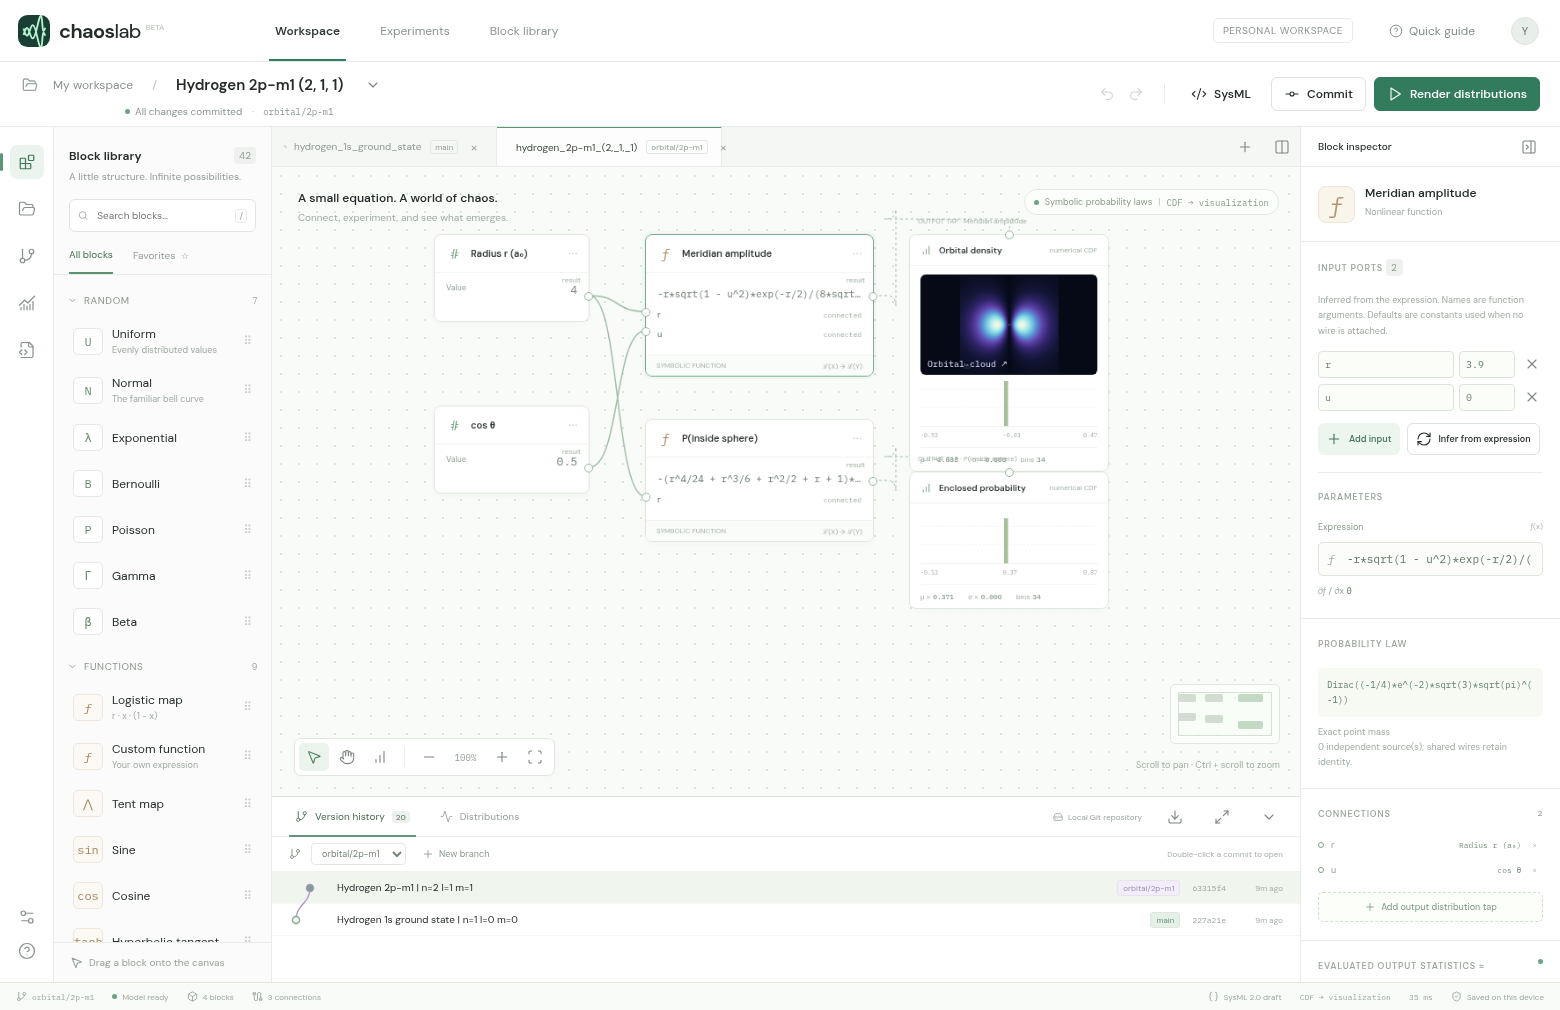
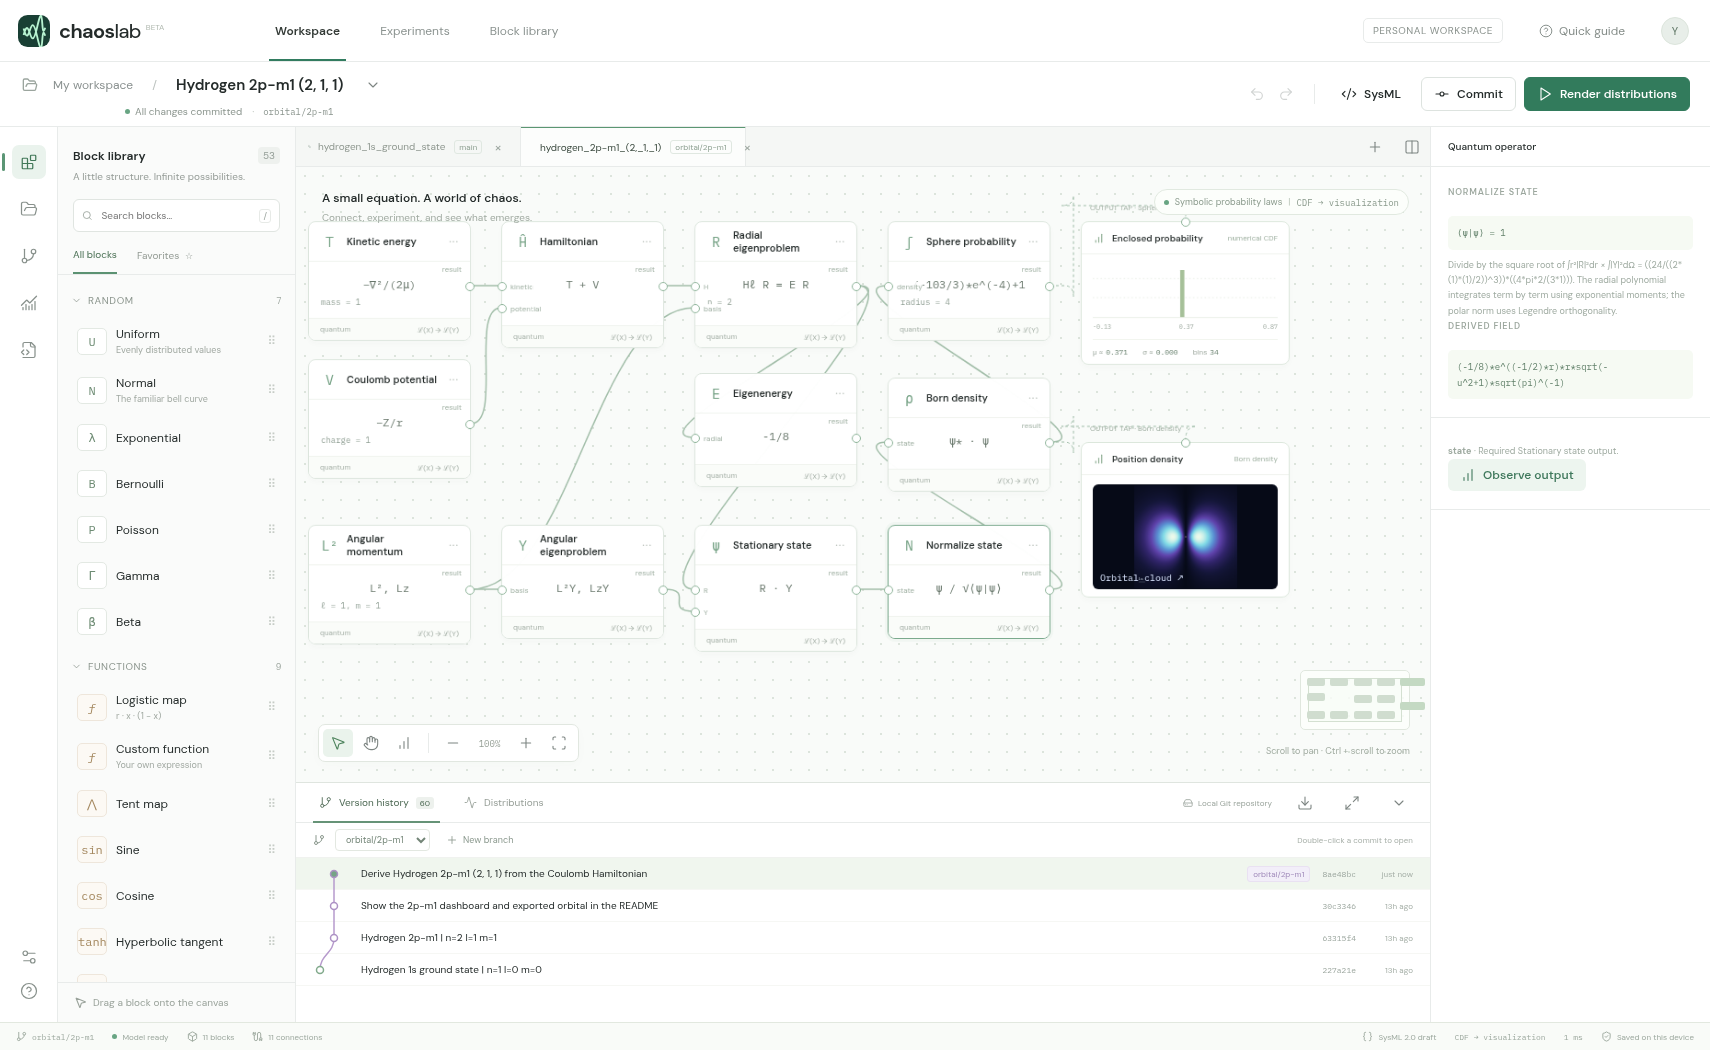
Show the derived state and operator graph for orbital/2p-m1

diff --git a/README.md b/README.md
@@ -4,6 +4,8 @@ Open **Version history** in Chaos Lab to explore the 20 hydrogen designs in this
 
 ## Hydrogen 2p (n = 2, ℓ = 1, m = 1)
 
+The connected Hamiltonian and eigenstate solvers give $E=-1/8$ Hartree for this state.
+
 ![Chaos Lab dashboard with the 2p model, m = 1, open in version history](dashboard.png)
 
 Radial nodes: 0. Polar nodes: 0. Plot half-width: 8 Bohr radii.
@@ -22,7 +24,7 @@ cd hydrogen_wavefunction
 python studio.py
 ```
 
-On Windows you can use `py studio.py`. On Linux you can use `python3 studio.py`. The first launch downloads the pinned Chaos Lab browser build. Double-click a commit to open it in a tab. Open another and use **Split view** to compare them. **Orbital cloud ↗** opens the spatial plots. The launcher reads the Git objects from your clone, including origin branches. Run `git fetch origin` and restart the launcher to load new remote branches.
+On Windows you can use `py studio.py`. On Linux you can use `python3 studio.py`. The first launch downloads the pinned Chaos Lab browser build. Double-click a commit to open it in a tab. Open another and use **Split view** to compare them. **Orbital cloud ↗** opens the spatial plots. The launcher reads the Git objects from your clone, including origin branches. For an existing clone, update the checked-out branch with `git pull --ff-only`, fetch the other branches with `git fetch origin`, and restart the launcher. Double-click the latest commit for the design you want to explore.
 
 To compare states with the same radial law, open `orbital/2p-m0` and `orbital/2p-m1`. At the same radius their enclosed-probability probes agree. The first slice is dark on the equatorial plane, while the second is dark along the polar axis.
 
@@ -32,7 +34,17 @@ To compare states with the same radial law, open `orbital/2p-m0` and `orbital/2p
 
 Branch names encode `(n, ℓ, m)`. For example, `orbital/3d-m1` is `(3,2,1)`. Each snapshot includes the editable graph, its compiled symbolic representation, and its SysML text. Each excited-state branch also contains a reference cross-section.
 
-Coordinates are in Bohr radii. These are normalized fixed-proton, nonrelativistic spatial eigenstates in the complex spherical-harmonic basis. For a fixed m the azimuthal phase is exp(i m φ), so probability density is axially symmetric. The graph evaluates the real meridian amplitude at φ = 0 using radius r and u = cos θ. Its square is probability per unit volume. The sphere probe integrates the radial Born law. The field tap sweeps the same amplitude expression for the x–z slice and its projected detections. Detections are drawn for display from a numerical grid of the final density including the r² volume factor. Brightness and plotting windows are scaled per orbital.
+## How the graph derives this orbital
+
+1. **Kinetic energy** and **Coulomb potential** supply the relative-coordinate operators in atomic units. Their wires feed **Hamiltonian**, which constructs $H=-\nabla^2/(2\mu)-Z/r$. The default is a fixed proton, $Z=\mu=1$.
+2. **Angular momentum** selects the joint eigenvalues of $L^2$ and $L_z$. **Radial eigenproblem** uses that angular eigenvalue in the centrifugal term. Regularity at the origin, decay at infinity, and radial-series termination give the polynomial and energy. **Angular eigenproblem** constructs the polar polynomial by Rodrigues differentiation and includes the phase $e^{im\phi}$.
+3. **Stationary state** multiplies the separated basis functions. **Normalize state** computes their norm with the spherical volume measure. **Born density** takes the squared modulus of the normalized state. **Sphere probability** integrates that density to the probe radius.
+4. Select a block to inspect its equation and derivation. Change **Nuclear charge** from 1 to 2. The energy becomes four times more negative and the orbital contracts by a factor of two. The plot rescales with the orbital, so use its Bohr-radius scale bar to see the change.
+
+The central slice evaluates the final density in the x–z plane. Projected detections sample the final density on a finite radial and angular grid with the spherical volume factor. Coordinates use Bohr radii and energy uses Hartree.
+
+The branch stores the operator graph in `model.json`, its derived fields and scalar laws in `model.symbolic.json`, and the block connections in `model.sysml`. With SymPy installed, run `python tools/verify_state.py` in a checkout of this branch to check the eigenvalue equations, normalization, radial reference solution and sphere integral.
+
 
 | n | ℓ | m | Design branch |
 |---|---|---|---|
